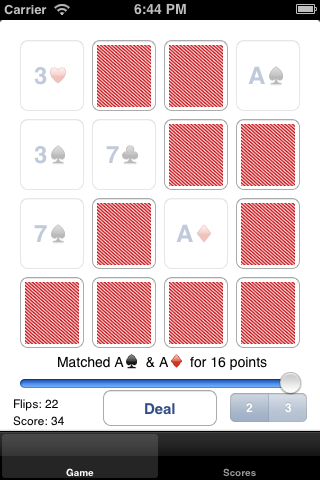
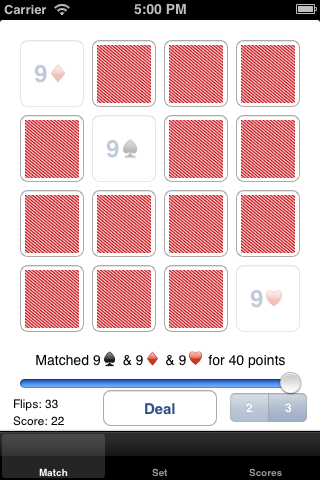
Added the Release Notes description for the Assignment 2

diff --git a/readme.md b/readme.md
@@ -17,11 +17,33 @@ Card Match Game
 
 ![Card Match Game Screenshot](screenshot-match.png)
 
+Set Game
+
+![Card Match Game Screenshot](screenshot-set.png)
+
 Game Scores
 
 ![Game Scores Screenshot](screenshot-scores.png)
 
 ## Release Notes
+
+### Assignment 2 Release: 27 April 2013
+Main feature of this release is a Set Card Game support including following features:
+
+ - Full Set Card Game logic
+ - The set card and last flip result displayed using attributes of the NSAttributedString
+ - In a set game cards disappear when set picked to reduce distraction
+ - We use two views, but share base logic of Match game using inheritance of the set card game controller from the base (match) card game controller.
+
+### Assignment 1 + Extra Credit Release: 1 April 2013
+Fully-working Matchismo Assignment 1 implemented with all required tasks and extra credit, including:
+
+ - Game play with 16 cards
+ - Description of the last flip result, e.g. cards match or just flip of the card.
+ - Easily start new game with "Deal" button
+ - Selection of either 2-card matching or 3-card matching game.
+ - Nice card design with custom image as back of the card.
+ - **Extra Credit** Flip history with UI to slide through past flips
 
 ### Lecture 5 - Slides Game Score model & tab: 7 April 2013
  - Implemented GameResult class with logic for storing game results and synchronizing it to NSUserDefaults.
@@ -29,12 +51,3 @@ Game Scores
  - Scores can be sorted by date, score and duration.
 
 Notice: The Assignment 2 starts with notice that we should use our Assignment 1 code as base. So the question is do we really need to start from Assignment 1 and throw temporarily our Lecture 5: Game Score Implementation or keep our Game Score Tab? Since the Assignment 2 has Game Score Tab as Extra Credit Task 2 we will keep this functionality and start Assignment 2 with it rather than from the Assignment 1 code (which doesn't have Scores Tab).
-
-### Assignment 1 + Extra Credit Release: 1 April 2013
-Fully-working Matchismo Assignment 1 implemented with all required tasks and extra credit, including:
- - Game play with 16 cards
- - Description of the last flip result, e.g. cards match or just flip of the card.
- - Easily start new game with "Deal" button
- - Selection of either 2-card matching or 3-card matching game.
- - Nice card design with custom image as back of the card.
- - **Extra Credit** Flip history with UI to slide through past flips
